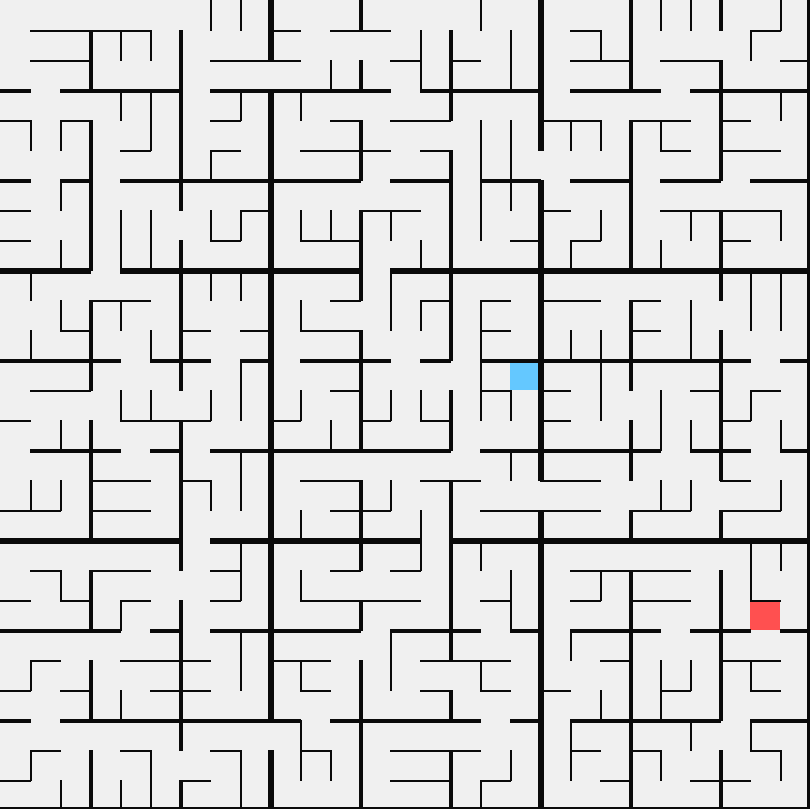
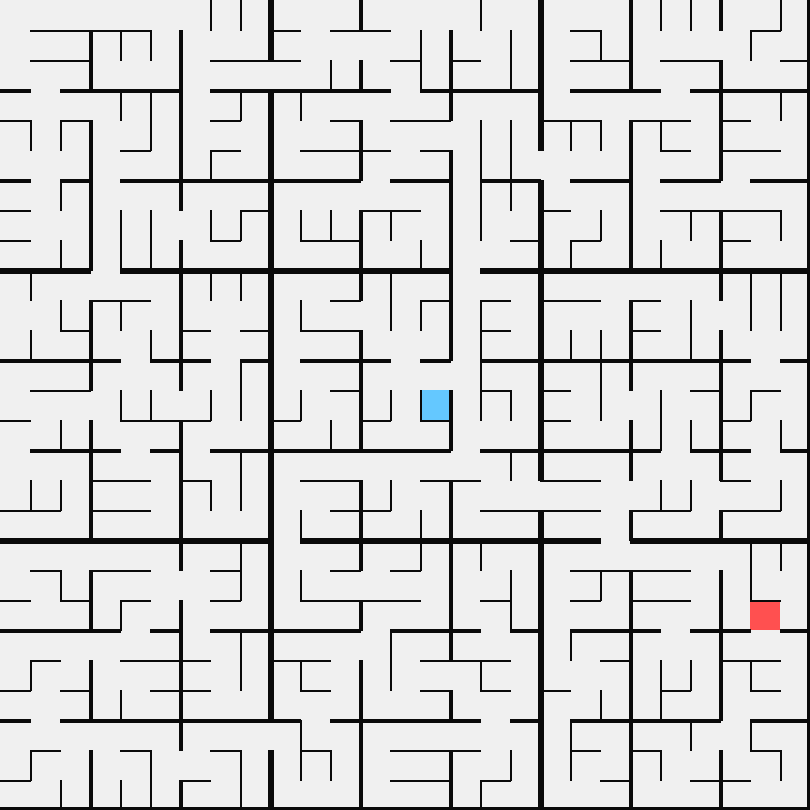
Fixed maze generation.

diff --git a/src/multi_level_maze/envs/multi_level_maze_env.py b/src/multi_level_maze/envs/multi_level_maze_env.py
@@ -132,7 +132,7 @@ class MultiLevelMazeEnv(gym.Env):
             if levels > 1:
                 picked_connection = self.maze_rng.integers(size ** (levels - 1) - 1)
                 if new_p[0] != p[0]:
-                    first_p = (min(new_p[0], p[0]) * (n+1) + n, p[1]*size*(levels-1)+picked_connection)
+                    first_p = (min(new_p[0], p[0]) * (n+1) + n, p[1]*size**(levels-1)+picked_connection)
                     second_p = (first_p[0]+1, first_p[1])
                 else:
                     first_p = (p[0]*size**(levels-1)+picked_connection, min(new_p[1], p[1]) * (n+1) + n)
